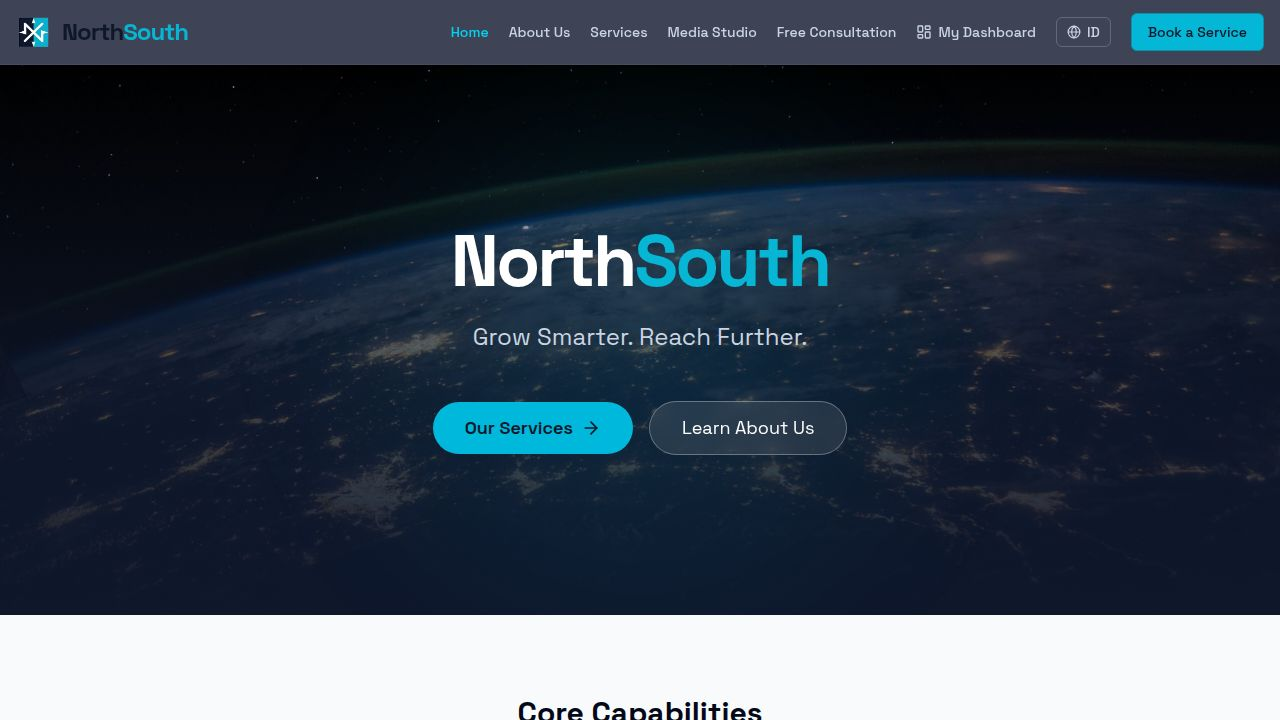
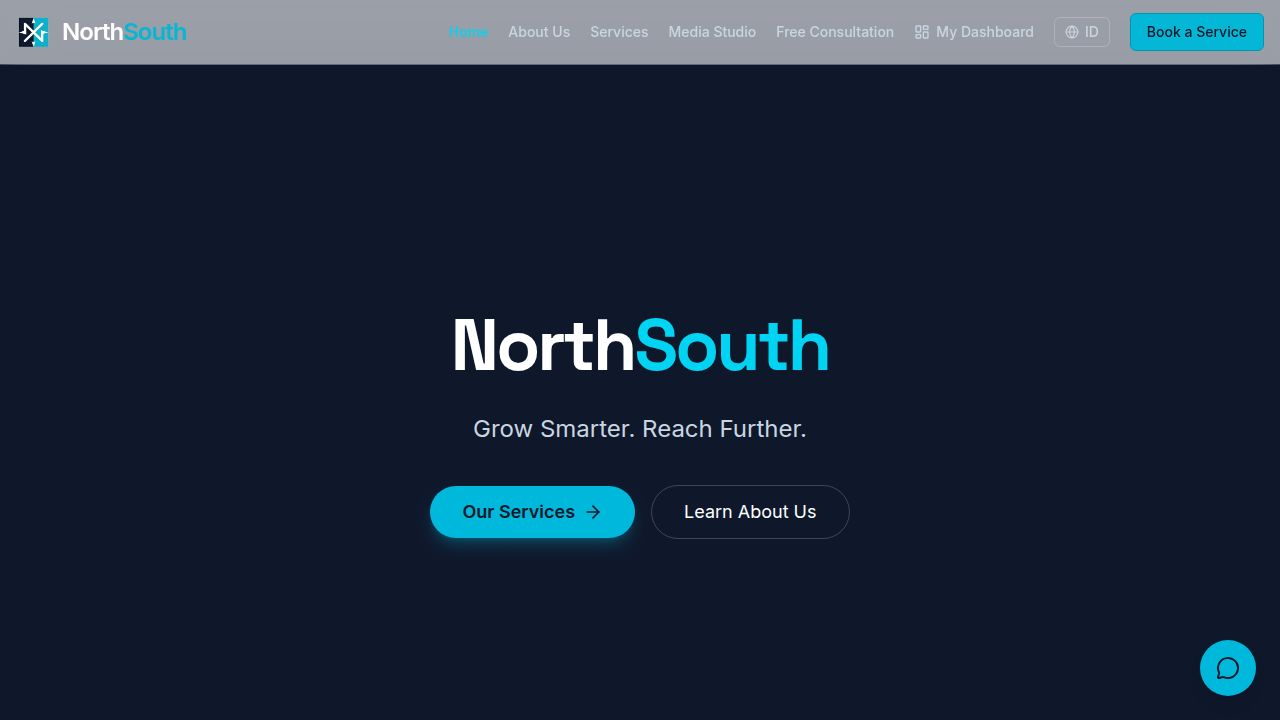
Update website hero section with fluid gradient and glassmorphism design
Replace video hero with animated gradient blobs and a glassmorphism container, updating Navbar to match the new dark aesthetic.

Replit-Commit-Author: Agent
Replit-Commit-Session-Id: 22ab6f4f-2c2a-4065-a181-bc6fa59108d9
Replit-Commit-Checkpoint-Type: full_checkpoint
Replit-Commit-Event-Id: 117e245e-6ba1-4afe-a0c9-76132920e1e6
Replit-Commit-Screenshot-Url: https://storage.googleapis.com/screenshot-production-us-central1/ff9d270c-8b18-47aa-b692-d29598293dd5/22ab6f4f-2c2a-4065-a181-bc6fa59108d9/EthNzv7
Replit-Helium-Checkpoint-Created: true

diff --git a/artifacts/ebiz-site/src/pages/Home.tsx b/artifacts/ebiz-site/src/pages/Home.tsx
@@ -5,6 +5,7 @@ import { MediaCard } from "@/components/MediaCard";
 import { Button } from "@/components/ui/button";
 import { ArrowRight } from "lucide-react";
 import { useLanguage } from "@/context/LanguageContext";
+import { motion } from "framer-motion";
 
 export default function Home() {
   const { t } = useLanguage();
@@ -17,41 +18,61 @@ export default function Home() {
 
   return (
     <div className="flex flex-col min-h-screen">
-      {/* Hero Section — Video Background */}
-      <section className="relative min-h-screen flex items-center justify-center overflow-hidden bg-slate-900">
-        {/* Layer 1: Video */}
-        <video
-          autoPlay
-          loop
-          muted
-          playsInline
-          className="absolute top-0 left-0 w-full h-full object-cover z-0"
-          poster="/images/hero-poster.jpg"
-        >
-          <source src="/videos/hero-video.mp4" type="video/mp4" />
-        </video>
+      {/* Hero Section — Fluid Gradient + Glassmorphism */}
+      <section className="relative min-h-screen flex items-center justify-center overflow-hidden bg-slate-950">
 
-        {/* Layer 2: Brand Scrim — blends video into Midnight Slate */}
-        <div className="absolute inset-0 z-10 bg-gradient-to-b from-slate-900 via-slate-900/70 to-slate-900/50" />
+        {/* Blob 1 — Electric Cyan */}
+        <motion.div
+          className="absolute top-[-10%] left-[-10%] w-[600px] h-[600px] bg-cyan-500/60 rounded-full blur-[150px]"
+          animate={{ x: [0, 60, -30, 0], y: [0, -40, 60, 0], scale: [1, 1.15, 0.95, 1] }}
+          transition={{ duration: 28, repeat: Infinity, ease: "easeInOut" }}
+        />
+        {/* Blob 2 — Deep Purple */}
+        <motion.div
+          className="absolute bottom-[-10%] right-[-10%] w-[700px] h-[700px] bg-purple-600/50 rounded-full blur-[150px]"
+          animate={{ x: [0, -70, 40, 0], y: [0, 50, -60, 0], scale: [1, 0.9, 1.2, 1] }}
+          transition={{ duration: 34, repeat: Infinity, ease: "easeInOut" }}
+        />
+        {/* Blob 3 — Vibrant Orange */}
+        <motion.div
+          className="absolute top-[40%] left-[30%] w-[400px] h-[400px] bg-orange-500/40 rounded-full blur-[150px]"
+          animate={{ x: [0, 80, -50, 0], y: [0, -70, 30, 0], scale: [1, 1.2, 0.85, 1] }}
+          transition={{ duration: 22, repeat: Infinity, ease: "easeInOut" }}
+        />
 
-        {/* Layer 3: Content */}
-        <div className="relative z-20 container mx-auto px-4 py-24">
-          <div className="max-w-3xl mx-auto text-center">
+        {/* Glassmorphism Frame */}
+        <div className="relative z-10 w-full max-w-3xl mx-6 rounded-[2rem] p-12 md:p-16 text-center bg-white/5 backdrop-blur-2xl border border-white/20 shadow-2xl">
+
+          {/* Internal color glows — makes the glass feel refractive */}
+          <div className="absolute inset-0 rounded-[2rem] overflow-hidden z-0 pointer-events-none">
+            <div className="absolute top-0 right-0 w-48 h-48 bg-cyan-500 blur-[80px] opacity-30" />
+            <div className="absolute bottom-0 left-0 w-48 h-48 bg-purple-600 blur-[80px] opacity-30" />
+          </div>
+
+          {/* Content — sits above the internal glows */}
+          <div className="relative z-10">
             <h1
-              className="text-5xl md:text-7xl font-bold mb-8"
-              style={{ letterSpacing: "-0.04em" }}
+              className="text-5xl md:text-7xl font-bold tracking-tight text-white leading-tight mb-6"
+              style={{ fontFamily: "'Space Grotesk', sans-serif" }}
               data-testid="text-hero-headline"
             >
-              <span className="text-white">North</span>
-              <span className="text-cyan-400">South</span>
+              Think. Plan. Grow.<br />
+              <span className="bg-gradient-to-r from-cyan-400 to-purple-400 bg-clip-text text-transparent">
+                All in one.
+              </span>
             </h1>
-            <p className="text-xl md:text-2xl font-light text-slate-300 mb-10" data-testid="text-hero-tagline">
+
+            <p
+              className="text-lg text-slate-300 mb-10 max-w-lg mx-auto"
+              data-testid="text-hero-tagline"
+            >
               {t.profile.tagline}
             </p>
+
             <div className="flex flex-col sm:flex-row items-center justify-center gap-4">
               <Link href="/services">
                 <button
-                  className="inline-flex items-center gap-2 bg-cyan-500 text-slate-900 font-semibold px-8 py-3 rounded-full hover:bg-cyan-400 transition-all shadow-lg shadow-cyan-500/25 text-lg"
+                  className="inline-flex items-center gap-2 bg-cyan-500 text-slate-900 font-semibold px-8 py-3.5 rounded-full hover:bg-cyan-400 transition-all shadow-lg shadow-cyan-500/25 text-base"
                   data-testid="button-hero-cta"
                 >
                   {t.home.heroCta}
@@ -60,7 +81,7 @@ export default function Home() {
               </Link>
               <Link href="/profile">
                 <button
-                  className="inline-flex items-center border border-white/20 text-white px-8 py-3 rounded-full hover:bg-white/10 transition-all text-lg"
+                  className="inline-flex items-center border border-white/20 text-white px-8 py-3.5 rounded-full hover:bg-white/10 transition-all text-base"
                   data-testid="button-hero-secondary"
                 >
                   {t.home.heroSecondary}

diff --git a/artifacts/ebiz-site/src/components/layout/Navbar.tsx b/artifacts/ebiz-site/src/components/layout/Navbar.tsx
@@ -45,7 +45,7 @@ export function Navbar() {
   return (
     <nav
       className={`fixed top-0 w-full z-50 backdrop-blur-xl border-b border-white/10 transition-all duration-300 ${
-        scrolled ? "bg-slate-900/80 shadow-lg" : "bg-slate-900/40"
+        scrolled ? "bg-slate-950/80 shadow-lg" : "bg-slate-950/40"
       }`}
       data-testid="navbar"
     >
